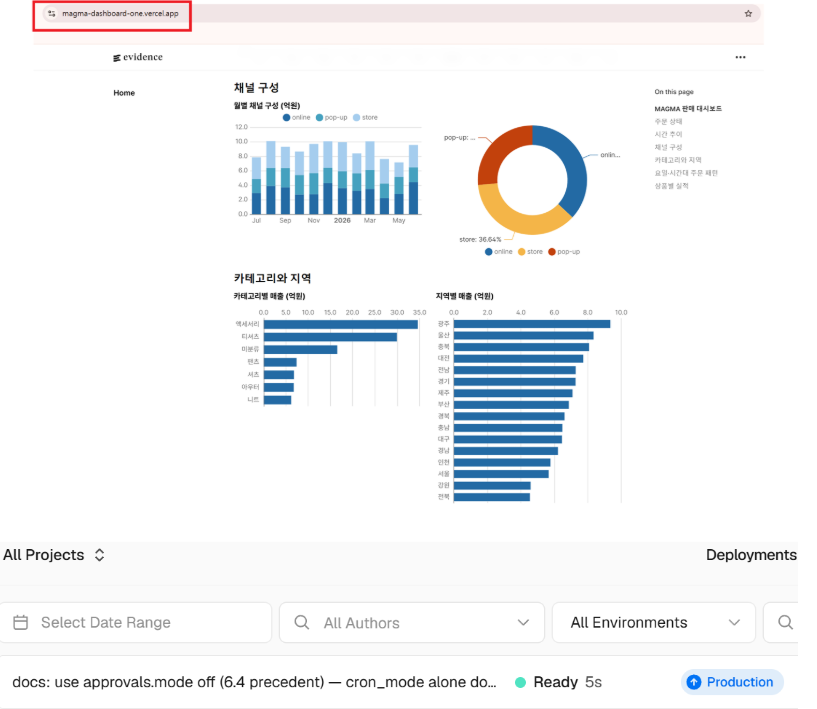
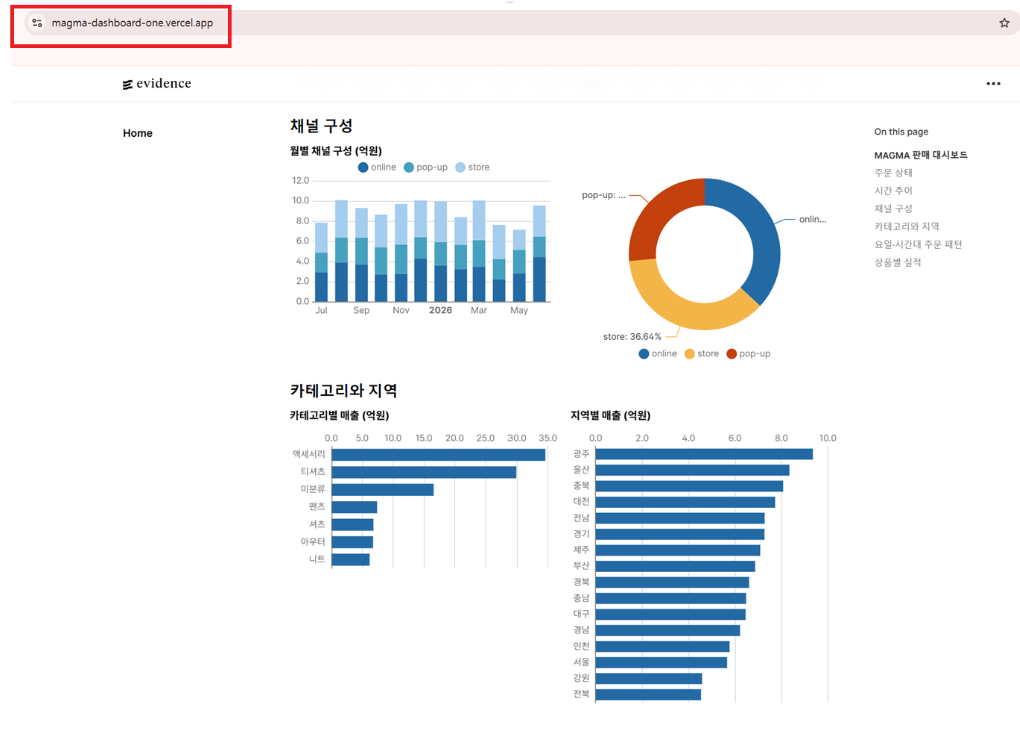
Refresh Supabase workflow evidence (#15)
* docs: refresh Supabase evidence captures

* docs: synchronize evidence counts

---------

diff --git a/docs/evidence/evidence-register.md b/docs/evidence/evidence-register.md
@@ -76,14 +76,15 @@ Original digests allow the owner to show during a controlled interview that a pr
[20 lines of base64/hex data omitted]
 
 ## Explicit exclusions
 

diff --git a/docs/case-studies/supabase-agent-data-operations.md b/docs/case-studies/supabase-agent-data-operations.md
@@ -73,11 +73,11 @@ The ingestion operating model assigns collection to Oliver, CSV contract validat
 
 ![Sanitized Supabase table view showing records loaded from multiple public commerce sources](../../assets/evidence/31-supabase-loaded-records-sanitized.png)
 
-The table capture shows records materialized in Supabase with run identifiers, source-specific product IDs, retained source URLs, product names, and brand fields. Public commerce URLs remain visible as provenance; private Supabase account and project identifiers were removed.
+The table capture shows records materialized in Supabase with run identifiers, source-specific product IDs, retained source URLs, product names, and brand fields. Public commerce URLs remain visible as provenance; private Supabase organization and project labels are covered with opaque white masks.
 
 ![Sanitized reconciliation report comparing five CSV staging inputs with Supabase counts](../../assets/evidence/32-supabase-load-reconciliation-sanitized.png)
 
-The captured reconciliation checks five staging tables against direct Supabase queries. All five source/database row counts match, covering **54,690 rows** across **113 batches**. The loader is described as transactional and stops rather than appending duplicates when a target batch already exists. Personal paths and the internal run identifier are covered by opaque masks.
+The captured reconciliation checks five staging tables against direct Supabase queries. All five source/database row counts match, covering **54,690 rows** across **113 batches**. The loader is described as transactional and stops rather than appending duplicates when a target batch already exists. Personal paths and the internal run identifier are covered by opaque white masks.
 
 ## 3. Data quality with human decision points
 
@@ -121,11 +121,15 @@ The Kanban control plane turns agent work into explicit state transitions. Each 
 
 ![Sanitized read-only Ada task contract for a quarter-over-quarter analysis](../../assets/evidence/37-ada-read-only-task-contract-sanitized.png)
 
-The Ada card defines the comparison period, allowed Supabase view, required dimensions, SQL-based cross-check, output contract, and prohibitions. It limits data access and verification to Supabase MCP SQL, forbids source-table/database changes, preserves excluded products, and instructs the workflow not to guess or retry ambiguous errors. Private workspace paths and the notification target are masked.
+The Ada card defines the comparison period, allowed Supabase view, required dimensions, SQL-based cross-check, output contract, and prohibitions. It limits data access and verification to Supabase MCP SQL, forbids source-table/database changes, preserves excluded products, and instructs the workflow not to guess or retry ambiguous errors. Personal workspace paths are covered with opaque white masks.
+
+![Sanitized quarterly-report schedule showing the cron expression, handoff order, and approval behavior](../../assets/evidence/39-scheduled-quarterly-report-definition-sanitized.png)
+
+The scheduled-job definition fixes the quarterly trigger, analysis target, agent handoff order, retry ceiling, and approval behavior before execution. This separates durable workflow policy from an ad hoc prompt. Personal workspace and generated-template paths are covered with opaque white masks.
 
 ![Sanitized scheduled-run report showing completed, blocked, and waiting cards](../../assets/evidence/38-scheduled-loop-run-sanitized.png)
 
-The scheduled run records a successful analysis card, a report card blocked at an automated validation/approval gate, and a publication card left waiting. It also records the next scheduled run. This demonstrates four operating primitives working together:
+The scheduled run records a successful analysis card, a report card blocked at an automated validation/approval gate, and a publication card left waiting. It also records the next scheduled run. Personal artifact paths are covered with opaque white masks. This demonstrates four operating primitives working together:
 
 1. **fixed artifact locations** define how data and reports move between workers;
 2. **ordered Kanban cards** define ownership and handoff state;

diff --git a/assets/evidence/README.md b/assets/evidence/README.md
@@ -32,14 +32,15 @@ These files are privacy-reviewed captures prepared for the public portfolio. The
 | `28-ada-supabase-schema-review.png` | Agent-assisted Supabase schema review | metadata normalized; no credential, endpoint, or private identifier observed |
 | `29-postgres-schema-contract.png` | PostgreSQL snapshot-table contract | metadata normalized; visible DDL and constraints retained |
 | `30-supabase-schema-sanitized.png` | Deployed Supabase schema | browser URL and account/project identifiers removed by cropping |
-| `31-supabase-loaded-records-sanitized.png` | Materialized product snapshots | account/project header removed; public source URLs retained |
-| `32-supabase-load-reconciliation-sanitized.png` | Five-table load reconciliation | personal paths and internal run identifier covered with opaque masks |
+| `31-supabase-loaded-records-sanitized.png` | Materialized product snapshots | organization/project labels covered with opaque white masks; public source URLs retained |
+| `32-supabase-load-reconciliation-sanitized.png` | Five-table load reconciliation | personal paths and internal run identifier covered with opaque white masks |
 | `33-data-quality-human-review.png` | Data-quality findings and human decision points | metadata normalized; no credential or private identifier observed |
 | `34-agent-sql-analysis.png` | Auditable channel-performance SQL | metadata normalized; query and aggregate output retained |
 | `35-deployed-bi-dashboard.png` | Deployed collaborative BI artifact | metadata normalized; public deployment and dashboard output retained |
 | `36-multi-agent-kanban-loop.png` | Kanban control plane | metadata normalized; workflow states and role assignments retained |
-| `37-ada-read-only-task-contract-sanitized.png` | Read-only Ada analytical task contract | personal paths and private notification target covered with opaque masks |
-| `38-scheduled-loop-run-sanitized.png` | Scheduled closed-loop execution | personal artifact paths covered with opaque masks; run/gate status retained |
+| `37-ada-read-only-task-contract-sanitized.png` | Read-only Ada analytical task contract | personal workspace paths covered with opaque white masks |
+| `38-scheduled-loop-run-sanitized.png` | Scheduled closed-loop execution | personal artifact paths covered with opaque white masks; run/gate status retained |
+| `39-scheduled-quarterly-report-definition-sanitized.png` | Quarterly report schedule and handoff contract | personal workspace and generated-template paths covered with opaque white masks |
 
 Binary images require manual visual review. The repository privacy scanner does not claim OCR coverage.
 

diff --git a/README.md b/README.md
@@ -38,7 +38,7 @@ The public repository adds the missing engineering layer: deterministic data val
 |---|---:|
 | Unit and integration tests | 12 / 12 passed |
 | Deterministic reference artifacts | 6 / 6 matched |
-| Reviewed evidence captures | 36 / 36 hashes verified |
+| Reviewed evidence captures | 37 / 37 hashes verified |
 | Internal documentation links | all local targets resolved |
 | Hardened container smoke test | passed with network disabled and read-only root |
 
@@ -449,7 +449,7 @@ These values are regression fixtures for the public harness, not production perf
 
 ## Privacy-preserving evidence policy
 
-Raw screenshots are not evidence-safe: they can contain workspace labels, user display names, local paths, application IDs, or private operational context. Twenty-five privacy-reviewed public captures are committed: thirteen sanitized derivatives and twelve low-sensitivity captures that required no pixel edits. Where redaction is required it uses opaque masks rather than blur, and every public image has its own SHA-256 digest in [`docs/evidence/evidence-register.md`](docs/evidence/evidence-register.md).
+Raw screenshots are not evidence-safe: they can contain workspace labels, user display names, local paths, application IDs, or private operational context. Thirty-seven privacy-reviewed public captures are committed, comprising sanitized derivatives and low-sensitivity captures approved without content edits. Where redaction is required it uses opaque masks rather than blur, and every public image has its own SHA-256 digest in [`docs/evidence/evidence-register.md`](docs/evidence/evidence-register.md).
 
 One supplied screenshot exposed an authentication token in a URL. The committed derivative covers the full credential value with an opaque white mask; the original is excluded from the repository and evidence chain. Redaction does not invalidate a leaked credential, so revocation and reissuance remain required.
 

diff --git a/README.ja.md b/README.ja.md
@@ -38,7 +38,7 @@
 |---|---:|
 | Unit／integration tests | 12 / 12 passed |
 | 決定論的reference artifacts | 6 / 6 matched |
-| Reviewed evidence captures | 36 / 36 hashes verified |
+| Reviewed evidence captures | 37 / 37 hashes verified |
 | 内部documentation links | all local targets resolved |
 | Hardened container smoke test | network disabled・read-only rootでpassed |
 
@@ -437,7 +437,7 @@ CIはschema／data-quality rejection、7 agent contractのschemaとpublic/packag
 
 ## プライバシーを保護する証拠公開方針
 
-raw screenshotにはWorkspace label、display name、local path、application ID、非公開の運用情報が含まれ得ます。公開するのは25件のprivacy-reviewed public capture（13件のsanitized derivativeと12件のpixel編集不要capture）のみです。redactionが必要な場合はblurではなくopaque maskを使用し、全画像のSHA-256 digestを[`docs/evidence/evidence-register.md`](docs/evidence/evidence-register.md)に記録しています。
+raw screenshotにはWorkspace label、display name、local path、application ID、非公開の運用情報が含まれ得ます。公開している37件のprivacy-reviewed public captureは、匿名化した派生画像と、内容編集を行わず公開を承認した低機密度captureで構成されています。redactionが必要な場合はblurではなくopaque maskを使用し、全画像のSHA-256 digestを[`docs/evidence/evidence-register.md`](docs/evidence/evidence-register.md)に記録しています。
 
 提供画像の一つではURL内にauthentication tokenが露出していました。公開版ではcredential値全体を不透明な白色maskで覆い、原本をrepositoryとevidence chainから除外しています。マスキングは漏洩credentialを無効化しないため、失効・再発行は別途必要です。
 

diff --git a/CHANGELOG.md b/CHANGELOG.md
@@ -4,6 +4,7 @@ All notable changes to the public evaluation harness are documented here.
 
 ## Unreleased
 
+- Replace eight downsampled Supabase/Kanban evidence images with higher-resolution captures, redact only private labels, paths, and run identifiers using opaque white masks, and add a scheduled-job definition capture to the detailed case study.
 - Replace the compact two-column Supabase evidence grid with six consistent full-width, click-through figures in both README languages.
 - Localize the Japanese architecture diagram and refine the Japanese summary, implementation boundary, human-approval flow, and request-path explanations to match the English source semantics.
 - Add an explicit human-in-the-loop approval gate to the English and Japanese architecture: QA evidence can be approved, returned through the role router for revision, or rejected with a recorded rationale before final synthesis and Slack delivery.
